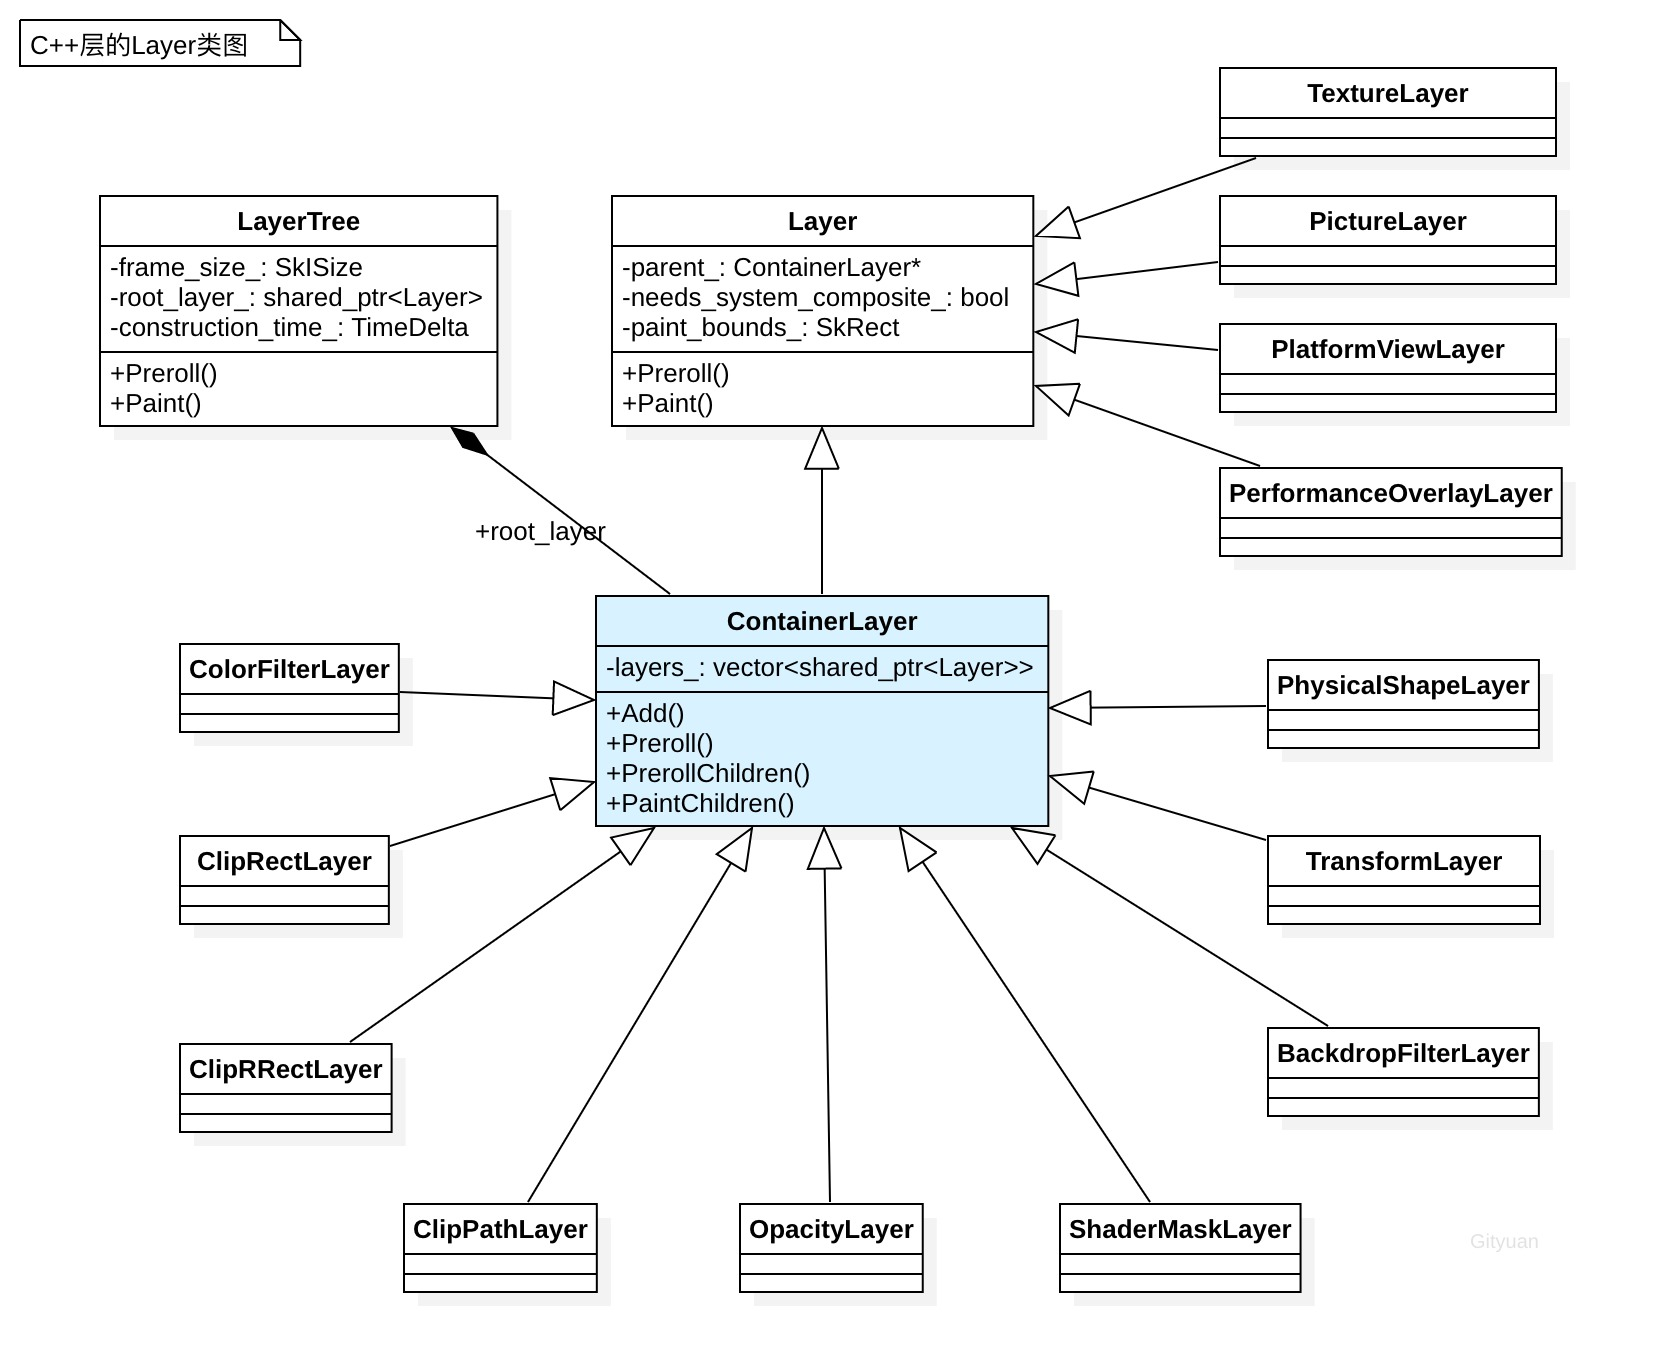
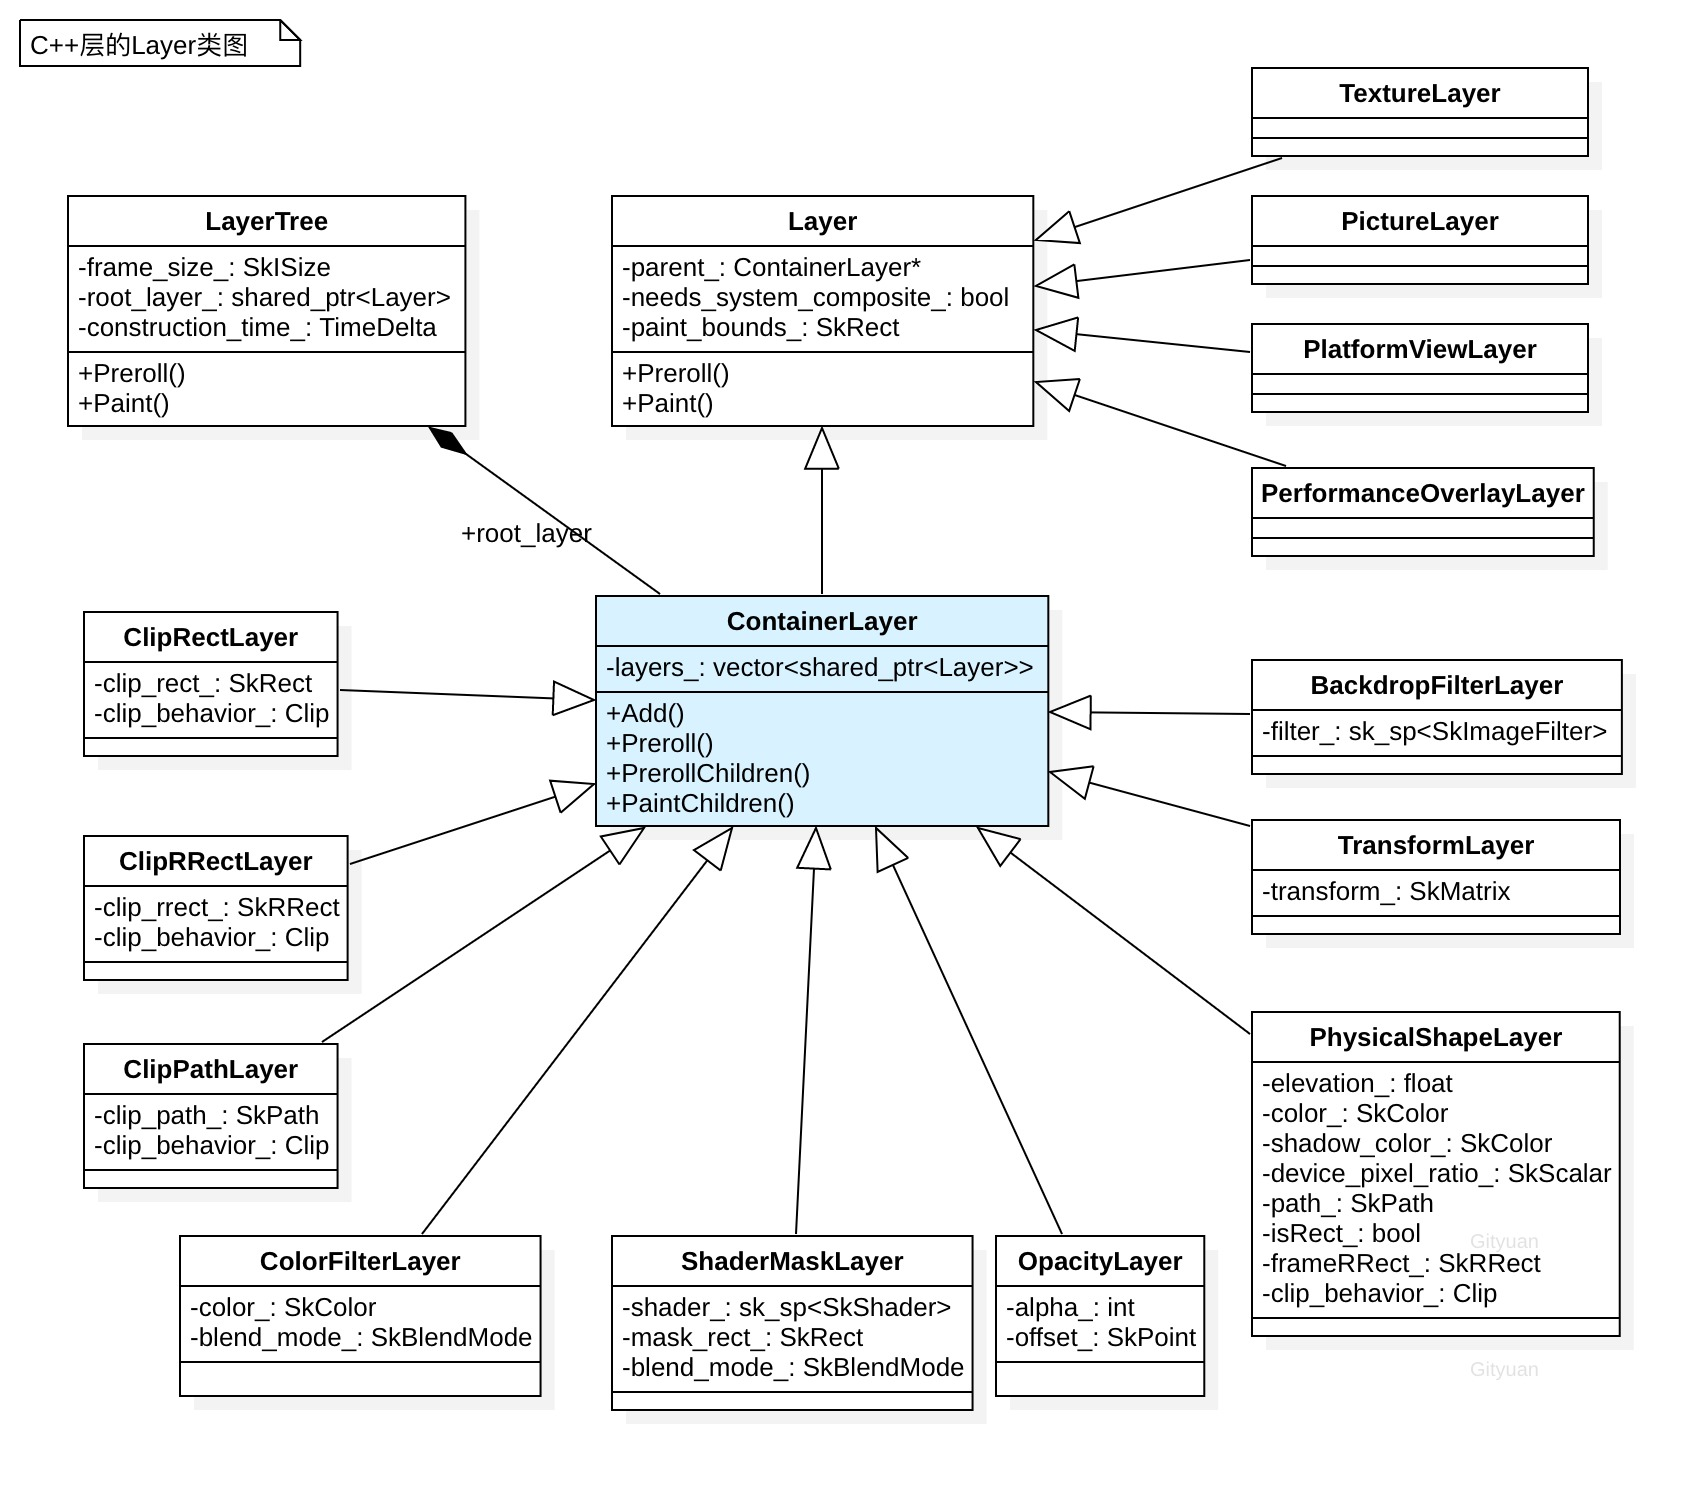
update

diff --git a/_posts/2019-06-16-flutter_gpu_draw.md b/_posts/2019-06-16-flutter_gpu_draw.md
@@ -24,6 +24,36 @@ tags:
 Flutter渲染机制在UI线程执行到compositeFrame()过程经过多层调用，将栅格化的任务Post到GPU线程来执行。GPU线程一旦空闲则会执行Rasterizer的draw()操作。图中LayerTree::Paint()过程是一个比较重要的操作，会嵌套调用不同layer的Paint过程，比如TransformLayer，PhysicalShapeLayer，ClipRectLayer，PictureLayer等，都执行完成会执行flush()将数据发送给GPU。
 
 
+#### 1.2 Surface类图
+![Surface类关系图](/img/flutter_gpu/ClassSurface.jpg)
+
+![ClassSurface](/img/flutter_gpu/ClassSurface.jpg)
+
+三种不同的AndroidSurface，见小节2.6.3：
+
+- 使用软件模拟的VSYNC方式，则采用AndroidSurfaceSoftware;
+- 硬件VSYNC方式，且开启VULKAN，则采用AndroidSurfaceVulkan;
+- 硬件VSYNC方式，且未开启VULKAN，则采用AndroidSurfaceGL;
+
+
+#### 1.3 Layer类图
+
+[Layer类关系图](/img/flutter_gpu/ClassLayer.jpg)
+
+![ClassLayer](/img/flutter_gpu/ClassLayer.jpg)
+
+LayerTree的root_layer来源于SceneBuilder过程初始化，第一个调用PushLayer()的layer便成为root_layer_，后面的调用会形成一个树状结构。从上图，可知ContainerLayer共有9个子类，由这些子类组合成为了一个layer tree，具体的组合方式取决于业务使用方，在LayerTree的Prepoll和Paint过程便会调用这些layer的方法，下面来看看这9个类：
+
+1. ClipRectLayer：圆角矩形裁剪层，可指定矩形和裁剪行为参数，其中裁剪行为有Clip.none，hardEdge，antiAlias，antiAliasWithSaveLayer四种行为；
+2. ClipRRectLayer：矩形裁剪层，可指定圆角矩形和裁剪行为参数，同上四种行为；
+3. ClipPathLayer：路径裁剪层，可指定路径和裁剪行为参数，同上四种行为；
+4. OpacityLayer：透明层，可指定透明度和偏移量参数，其中偏移量是指从画布坐标系原点到调用者坐标系原点的偏移量；
+5. ShaderMaskLayer：着色层，可指定着色器、矩阵和混合模式参数；
+6. ColorFilterLayer：颜色过滤层，可指定颜色和混合模式参数；
+7. Transformayer：变换图层，可指定转换矩阵参数；
+8. BackdropFilterLayer：背景过滤层，可指定背景图参数；
+9. PhysicalShapeLayer：物理形状层，可指定颜色等八个参数。
+
 ## 二、GPU线程渲染过程
 
 ### 2.1 MessageLoopImpl::RunExpiredTasks
@@ -223,9 +253,15 @@ bool Rasterizer::DrawToSurface(flow::LayerTree& layer_tree) {
 }
 ```
 
-layer_tree.construction_time()方法可以知道ui线程生成layer tree所花费时间，用于计算fps。
+该方法主要功能：
 
-### 2.6 AcquireFrame
+- 执行AndroidSurface的AcquireFrame()来获取SurfaceFrame，此处AndroidSurface为GPUSurfaceGL子类；
+- layer_tree.construction_time()记录ui线程生成layer tree所花费时间，将其记录到compositor_context_的engine_time，用于计算fps；
+- 执行CompositorContext的AcquireFrame()来获取ScopedFrame；
+- 执行ScopedFrame的Raster()进行绘制操作；
+- 执行SurfaceFrame的Submit()来进行flush和SwapBuffers操作。
+
+### 2.6 AndroidSurface::AcquireFrame
 
 要知道surface_到底是怎么来的，先来看看AndroidSurface::Create()过程。
 
@@ -278,15 +314,7 @@ std::unique_ptr<AndroidSurface> AndroidSurface::Create(
 }
 ```
 
-这里涉及到3种不同的AndroidSurface：
-
-- 使用软件模拟的VSYNC方式，则采用AndroidSurfaceSoftware;
-- 硬件VSYNC方式，且开启VULKAN，则采用AndroidSurfaceVulkan;
-- 硬件VSYNC方式，且未开启VULKAN，则采用AndroidSurfaceGL;
-
-目前android_surface_默认数据类型为AndroidSurfaceGL。
-
-![ClassSurface](/img/flutter_gpu/ClassSurface.jpg)
+三种不同的[AndroidSurface](/img/flutter_gpu/ClassSurface.jpg)，目前android_surface_默认数据类型为AndroidSurfaceGL。
 
 #### 2.6.4 AndroidSurfaceGL::CreateGPUSurface
 [-> flutter/shell/platform/android/android_surface_gl.cc]
@@ -352,6 +380,7 @@ std::unique_ptr<CompositorContext::ScopedFrame> CompositorContext::AcquireFrame(
 }
 ```
 
+创建ScopedFrame，其成遍历context_记录着CompositorContext，而CompositorContext是在Rasterizer对象初始化的时候创建的。
 
 ### 2.8 ScopedFrame::Raster
 [-> flutter/flow/compositor_context.cc]
@@ -365,6 +394,8 @@ bool CompositorContext::ScopedFrame::Raster(flow::LayerTree& layer_tree,
 }
 ```
 
+从小节2.5可知ignore_raster_cache等于false，会采用raster缓存。
+
 ### 2.9 LayerTree::Preroll
 [-> flutter/flow/layers/layer_tree.cc]
 
@@ -377,6 +408,7 @@ void LayerTree::Preroll(CompositorContext::ScopedFrame& frame,
   frame.context().raster_cache().SetCheckboardCacheImages(
       checkerboard_raster_cache_images_);
   PrerollContext context = {
+      //此处采用raster缓存
       ignore_raster_cache ? nullptr : &frame.context().raster_cache(),
       frame.gr_context(),
       frame.view_embedder(),
@@ -386,12 +418,17 @@ void LayerTree::Preroll(CompositorContext::ScopedFrame& frame,
       frame.context().engine_time(),
       frame.context().texture_registry(),
       checkerboard_offscreen_layers_};
-
+  //执行相应layer子类的preroll方法
   root_layer_->Preroll(&context, frame.root_surface_transformation());
 }
 ```
 
-从root_layer_记录图层树的根节点，根据根节点的具体ContainerLayer子类类型来执行相应类的Preroll方法()， 这里以ContainerLayer为例子来说明。
+该方法主要功能：
+
+- frame是由小节2.7过程赋值，其类型为ScopedFrame；
+- 用于统计fps的frame_time和engine_time是来自于CompositorContext的成员；
+- 从root_layer_记录图层树的根节点，根据根节点的具体ContainerLayer子类类型来执行相应类的Preroll方法()， 这里以ContainerLayer为例子来说明。
+
 
 #### 2.9.1 ContainerLayer::Preroll
 [-> flutter/flow/layers/container_layer.cc]
@@ -465,18 +502,8 @@ void LayerTree::Paint(CompositorContext::ScopedFrame& frame,
 
 paint_bounds_是在Preroll过程调用set_paint_bounds方法来赋值的，当paint_bounds_不为空则需要绘制。
 
-对于Paint绘制过程，调用哪个方法取决于图层树结构中相应的layer类型，具体如下类图
-
-#### 类图
-
-[Layer类关系图](/img/flutter_gpu/ClassLayer.jpg)
-
-![ClassLayer](/img/flutter_gpu/ClassLayer.jpg)
-
-LayerTree的root_layer来源于SceneBuilder过程初始化，第一个调用PushLayer()的layer便成为root_layer_，后面的调用会形成一个树状结构。
-
-
-每个执行Paint()过程会再调用PaintChildren来遍历layers_的子图层，下面列举图上几个类的Paint绘制方法。
+对于Paint绘制过程，调用哪个方法取决于图层树结构中相应的layer类型，详见[Layer类图](/img/flutter_gpu/ClassLayer.jpg)
+。每个执行Paint()过程会再调用PaintChildren来遍历layers_的子图层，下面列举图上几个类的Paint绘制方法。
 
 #### 2.10.1 TransformLayer::Paint
 [-> flutter/flow/layers/transform_layer.cc]
@@ -583,6 +610,41 @@ void PictureLayer::Paint(PaintContext& context) const {
     }
   }
   context.leaf_nodes_canvas->drawPicture(picture());
+}
+```
+
+#### 2.10.5 OpacityLayer::Paint
+[-> flutter/flow/layers/opacity_layer.cc]
+
+```Java
+void OpacityLayer::Paint(PaintContext& context) const {
+  TRACE_EVENT0("flutter", "OpacityLayer::Paint");
+
+  SkPaint paint;
+  paint.setAlpha(alpha_);
+
+  SkAutoCanvasRestore save(context.internal_nodes_canvas, true);
+  context.internal_nodes_canvas->translate(offset_.fX, offset_.fY);
+
+  if (context.view_embedder == nullptr && layers().size() == 1 &&
+      context.raster_cache) {
+    const SkMatrix& ctm = context.leaf_nodes_canvas->getTotalMatrix();
+    RasterCacheResult child_cache =
+        context.raster_cache->Get(layers()[0].get(), ctm);
+    if (child_cache.is_valid()) {
+      child_cache.draw(*context.leaf_nodes_canvas, &paint);
+      return;
+    }
+  }
+
+  SkRect saveLayerBounds;
+  paint_bounds()
+      .makeOffset(-offset_.fX, -offset_.fY)
+      .roundOut(&saveLayerBounds);
+
+  Layer::AutoSaveLayer save_layer =
+      Layer::AutoSaveLayer::Create(context, saveLayerBounds, &paint);
+  PaintChildren(context);
 }
 ```
 
